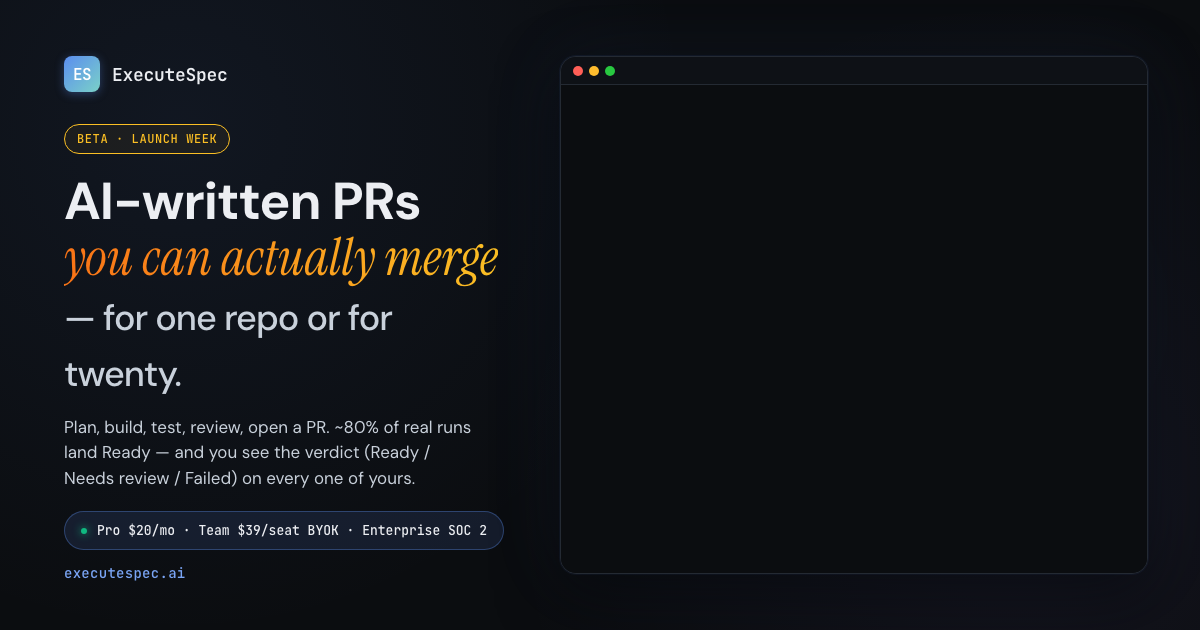
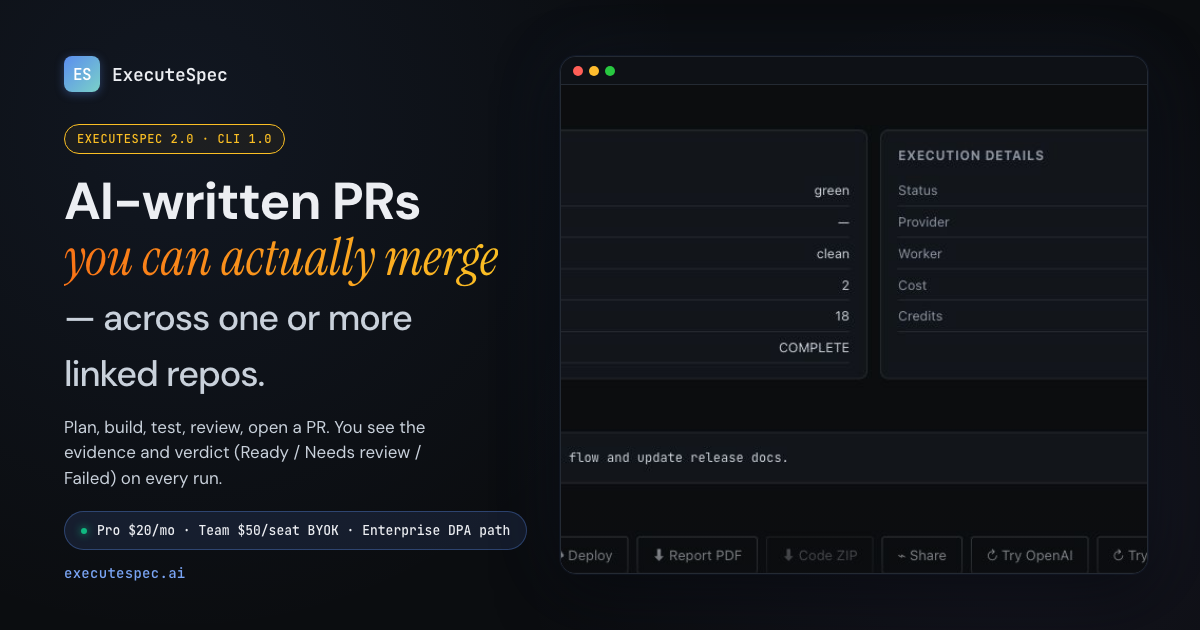
docs(website): refresh social preview asset

diff --git a/website/press-kit/og-hero-template/template.html b/website/press-kit/og-hero-template/template.html
@@ -229,7 +229,7 @@
           <div class="brand-mark">ES</div>
           <div class="brand-name">ExecuteSpec</div>
         </div>
-        <span class="chip" style="margin-top: 32px;">Beta · Launch week</span>
+        <span class="chip" style="margin-top: 32px;">ExecuteSpec 2.0 · CLI 1.0</span>
         <h1 class="headline" style="margin-top: 20px;">
           AI-written PRs<br>
           <span class="it">you can actually merge</span><br>

diff --git a/website/press-kit/og-hero-template/render.js b/website/press-kit/og-hero-template/render.js
@@ -19,7 +19,7 @@ const path = require('path');
   await page.evaluate(() => document.fonts.ready);
   await page.waitForFunction(() => {
     const img = new Image();
-    img.src = 'screenshot.png';
+    img.src = '../current/05-run-result.png';
     return img.complete || img.decode().then(() => true);
   });
   await page.waitForTimeout(500);

diff --git a/website/press-kit/og-hero-template/README.md b/website/press-kit/og-hero-template/README.md
@@ -11,15 +11,15 @@ Renders `/images/og-hero.png` (1200×630) — the social-share preview card that
 ## Rebuild
 
 ```bash
-# 1. Copy the latest product screenshot to use as the right-side visual
-cp ../ss-05b-validation-polished.png screenshot.png
+# 1. The template uses the canonical current Console capture
+#    (`../current/05-run-result.png`) directly; no stale screenshot copy is required.
 
-# 2. Render via Playwright (re-uses /tmp/es-capture/node_modules)
+# 2. Render via Playwright (or the repository's headless-Chrome capture helper)
 CHROMIUM_PATH="$HOME/Library/Caches/ms-playwright/chromium-1217/chrome-mac-arm64/Google Chrome for Testing.app/Contents/MacOS/Google Chrome for Testing" \
 NODE_PATH=/tmp/es-capture/node_modules \
 node render.js
 
-# 3. Quantize to 256 colors to shrink 241 KB → 92 KB (lossless-looking for flat UI)
+# 3. Quantize to 256 colors if a smaller social asset is needed
 python3 -c "from PIL import Image; img = Image.open('og-hero.png').convert('RGB'); img.quantize(colors=256, method=Image.Quantize.MEDIANCUT, dither=Image.Dither.FLOYDSTEINBERG).save('og-hero.png', format='PNG', optimize=True)"
 
 # 4. Ship
